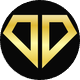
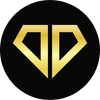
hi

diff --git a/styles.css b/styles.css
@@ -2343,17 +2343,12 @@ header {
 }
 
 .shoutout-logo {
-    width: 150px;
-    height: 150px;
-    border-radius: 50%;
-    overflow: hidden;
-    margin-bottom: 1.5rem;
-    border: 3px solid var(--primary);
+    width: 100px;
+    height: 100px;
     display: flex;
     align-items: center;
     justify-content: center;
-    background: white;
-    padding: 1rem;
+    margin-bottom: 1rem;
 }
 
 .shoutout-logo img {
